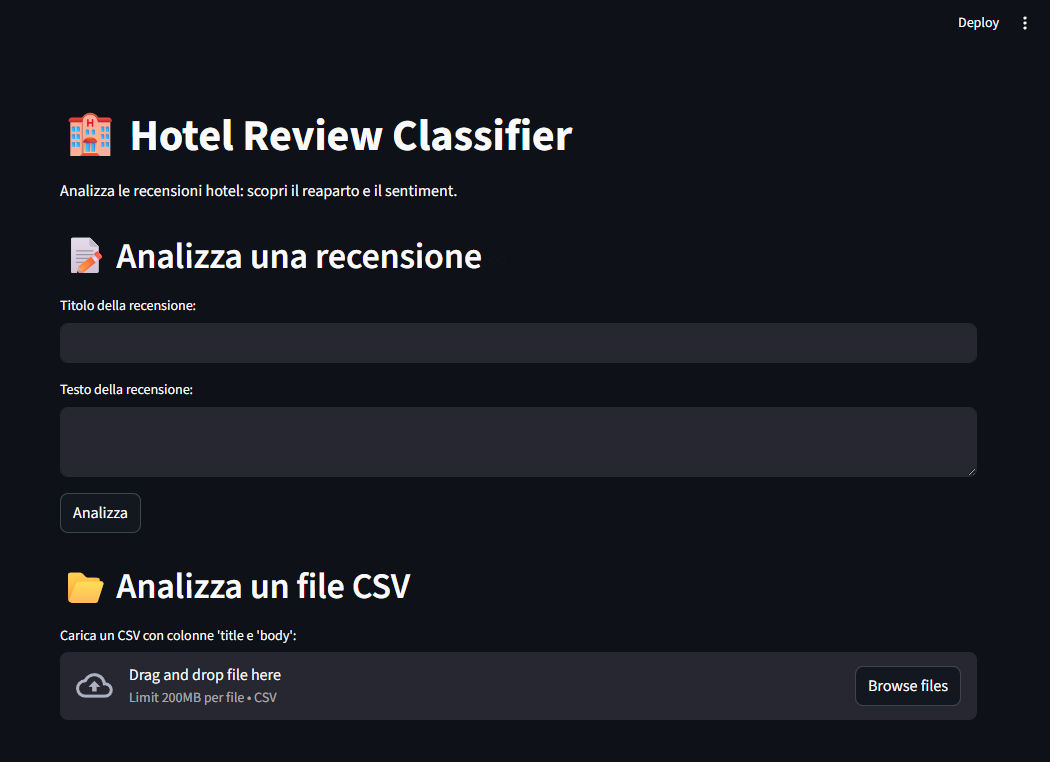
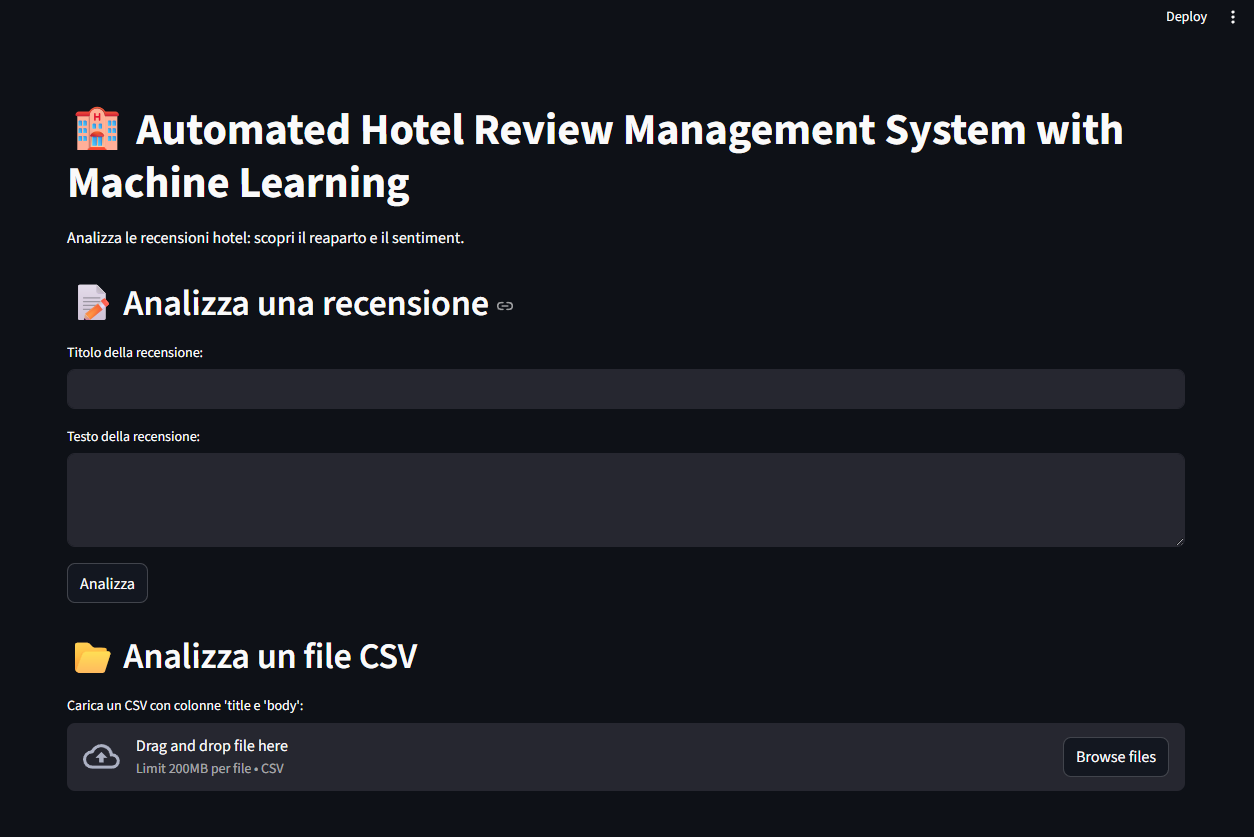
Aggiornato titolo dashboard e screenshot

diff --git a/dashboard/app.py b/dashboard/app.py
@@ -21,7 +21,7 @@ st.set_page_config(
     layout="wide"
 )
 
-st.title("🏨 Hotel Review Classifier")
+st.title("🏨 Automated Hotel Review Management System with Machine Learning")
 st.markdown("Analizza le recensioni hotel: scopri il reaparto e il sentiment.")
 
 # 3. ANALISI SINGOLA RECENSIONE 
